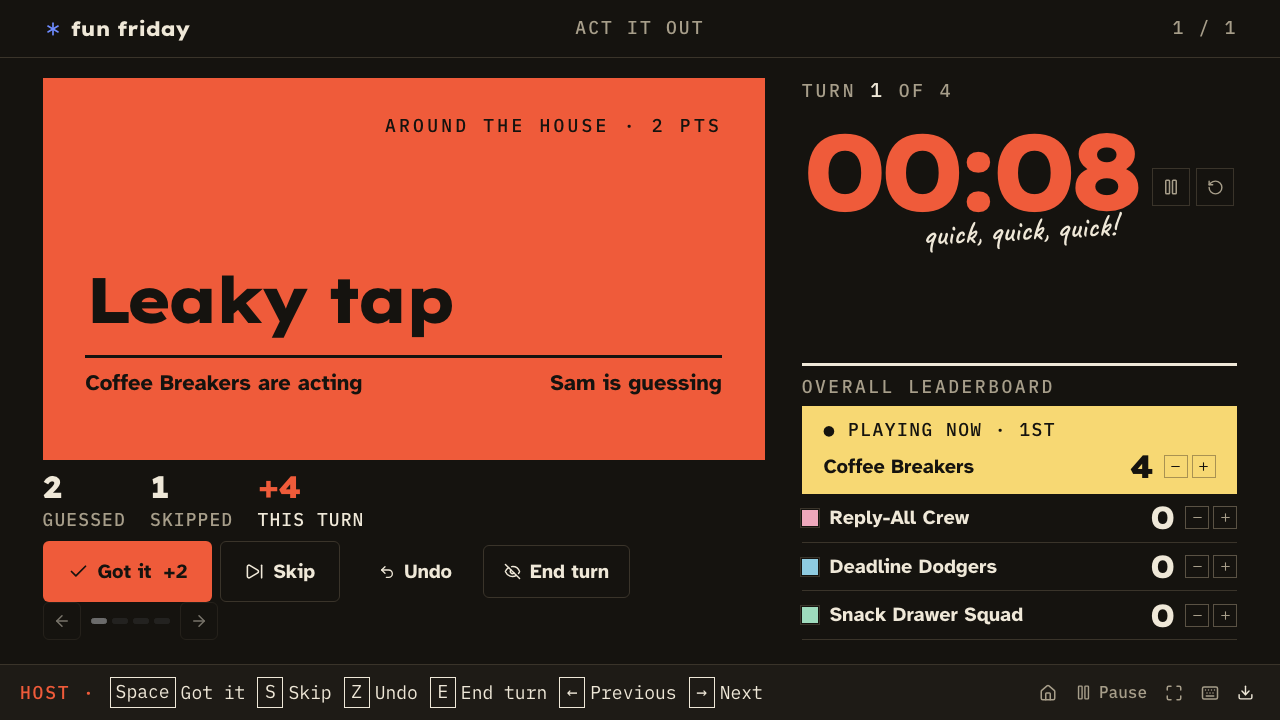
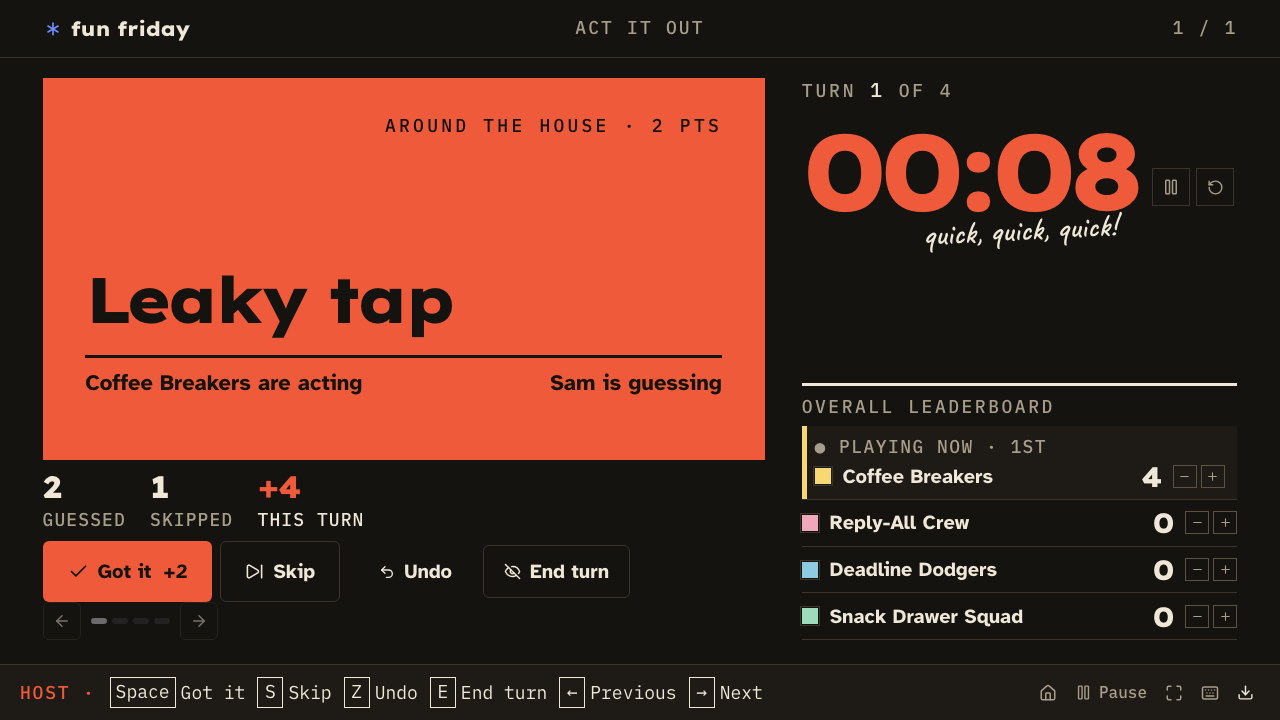
feat(ink): calm down the Childhood vs Now stage
The first pass was too dominating on the projector. Polaroids are about
70% of their former size with a gentler tilt and the handoff's polaroid
shadow; the name drops from 88px to 64px and the fun fact to 34px; the
+N CORRECT stamp is roughly half size with a 3px border.

The scoreboard (shared with Act It Out) loses the solid team-colour slab:
the team on stage is now a dark band with a 5px team-colour edge, and the
numerals drop from 64px to 40px. Eight teams still fit at 1280x720; After
Hours and Game Show are unchanged (24/24).

Changed region(s): [[0.625, 0.4889, 0.9688, 0.8861]]

diff --git a/src/theme/styles.css b/src/theme/styles.css
@@ -555,12 +555,12 @@
   [data-theme="ink"] [data-mode="show"] .round-header { border-bottom: 1px solid var(--rule); padding-bottom: 12px; }
   [data-theme="ink"] [data-mode="show"] .active-team .team-dot { width: 16px; height: 16px; border-radius: 0; box-shadow: none; }
   [data-theme="ink"] [data-mode="show"] .active-team small { color: var(--muted); letter-spacing: .14em; }
-  [data-theme="ink"] [data-mode="show"] .active-team strong { color: var(--paper); font: 700 clamp(22px, 1.6vw, 30px)/1.1 var(--body); letter-spacing: 0; }
+  [data-theme="ink"] [data-mode="show"] .active-team strong { color: var(--paper); font: 700 clamp(20px, 1.3vw, 26px)/1.1 var(--body); letter-spacing: 0; }
   [data-theme="ink"] [data-mode="show"] .round-count { font-family: var(--label); color: var(--muted); letter-spacing: .12em; text-transform: uppercase; }
   [data-theme="ink"] [data-mode="show"] .round-count b { color: var(--paper); font-weight: 500; }
   [data-theme="ink"] [data-mode="show"] .round-count small, [data-theme="ink"] [data-mode="show"] .point-stake > span { white-space: nowrap; letter-spacing: .06em; }
   [data-theme="ink"] [data-mode="show"] .point-stake { color: var(--vermilion); }
-  [data-theme="ink"] [data-mode="show"] .point-stake > b { font: 800 clamp(44px, 3.3vw, 64px)/.85 var(--heading); letter-spacing: -.06em; }
+  [data-theme="ink"] [data-mode="show"] .point-stake > b { font: 800 clamp(32px, 2.3vw, 44px)/.85 var(--heading); letter-spacing: -.06em; }
 
   /* Scoreboard: rules between rows, the team on stage as a colour slab ("● PLAYING NOW · 1ST"). */
   [data-theme="ink"] [data-mode="show"] .scoreboard { border-left: 0; padding: 0; display: flex; flex-direction: column; }
@@ -570,16 +570,16 @@
   [data-theme="ink"] [data-mode="show"] .scoreboard .score-row { display: grid; grid-template-columns: minmax(0, 1fr) auto; grid-template-areas: "head buttons"; align-items: center; column-gap: 12px; margin: 0; padding: clamp(8px, .8vw, 14px) 0; border: 0; border-bottom: 1px solid var(--rule); border-radius: 0; background: none; }
   [data-theme="ink"] [data-mode="show"] .score-heading { grid-area: head; gap: 12px; min-width: 0; }
   [data-theme="ink"] [data-mode="show"] .score-heading .team-dot { width: 16px; height: 16px; border-radius: 0; flex-shrink: 0; }
-  [data-theme="ink"] [data-mode="show"] .score-heading strong { font: 700 clamp(20px, 1.4vw, 28px)/1.1 var(--body); overflow-wrap: anywhere; }
-  [data-theme="ink"] [data-mode="show"] .score-heading b { font: 800 clamp(40px, 3.3vw, 64px)/.85 var(--heading); letter-spacing: -.06em; }
+  [data-theme="ink"] [data-mode="show"] .score-heading strong { font: 700 clamp(20px, 1.2vw, 24px)/1.15 var(--body); overflow-wrap: anywhere; }
+  [data-theme="ink"] [data-mode="show"] .score-heading b { font: 800 clamp(28px, 2.1vw, 40px)/.9 var(--heading); letter-spacing: -.05em; }
   [data-theme="ink"] [data-mode="show"] .score-meta { display: contents; }
   [data-theme="ink"] [data-mode="show"] .score-meta > span { display: none; }
   [data-theme="ink"] [data-mode="show"] .score-meta > div { grid-area: buttons; }
   [data-theme="ink"] [data-mode="show"] .score-meta button { border-radius: 0; border-color: var(--rule-strong); color: var(--muted); }
-  [data-theme="ink"] [data-mode="show"] .scoreboard .score-row.active { grid-template-areas: "label label" "head buttons"; padding: clamp(10px, 1vw, 20px) clamp(14px, 1.7vw, 32px); background: var(--team-color); color: var(--ink); border-bottom-color: transparent; }
-  [data-theme="ink"] [data-mode="show"] .score-row.active::before { content: "● PLAYING NOW · " attr(data-rank); grid-area: label; margin-bottom: clamp(6px, 1vw, 20px); font: 500 18px/1.2 var(--label); letter-spacing: .08em; white-space: nowrap; }
-  [data-theme="ink"] [data-mode="show"] .score-row.active .team-dot { display: none; }
-  [data-theme="ink"] [data-mode="show"] .score-row.active .score-meta button { border-color: color-mix(in oklch, var(--ink) 35%, transparent); color: var(--ink); }
+  [data-theme="ink"] [data-mode="show"] .scoreboard .score-row.active { grid-template-areas: "label label" "head buttons"; padding: clamp(8px, .8vw, 14px) clamp(12px, 1vw, 18px); background: var(--ink-2); box-shadow: inset 5px 0 var(--team-color); }
+  [data-theme="ink"] [data-mode="show"] .score-row.active::before { content: "● PLAYING NOW · " attr(data-rank); grid-area: label; margin-bottom: 6px; color: var(--muted); font: 500 18px/1.2 var(--label); letter-spacing: .08em; white-space: nowrap; }
+  [data-theme="ink"] [data-mode="show"] .score-row.active .team-dot { display: block; }
+  [data-theme="ink"] [data-mode="show"] .score-row.active .score-meta button { border-color: var(--rule-strong); color: var(--muted); }
   /* Six or more teams: compact rows so eight fit at 1280×720 without clipping behind the host rail. */
   [data-theme="ink"] [data-mode="show"] .scoreboard:has(.score-row ~ .score-row ~ .score-row ~ .score-row ~ .score-row ~ .score-row) .score-row { padding-block: 5px; }
   [data-theme="ink"] [data-mode="show"] .scoreboard:has(.score-row ~ .score-row ~ .score-row ~ .score-row ~ .score-row ~ .score-row) .score-heading strong { font-size: 20px; }
@@ -587,27 +587,27 @@
   [data-theme="ink"] [data-mode="show"] .scoreboard:has(.score-row ~ .score-row ~ .score-row ~ .score-row ~ .score-row ~ .score-row) .score-row.active::before { margin-bottom: 4px; }
 
   /* ---- Stage · Childhood vs Now (handoff screen 5): then | name | now, polaroids either side ---- */
-  [data-theme="ink"] [data-mode="show"] .cvn-stage .polaroid { background: var(--paper-2); padding: 14px 14px 0; box-shadow: 0 18px 40px #000a; color: var(--rule); }
-  [data-theme="ink"] [data-mode="show"] .cvn-stage .polaroid-caption { font: 600 clamp(28px, 2.3vw, 44px)/1.5 var(--hand); color: var(--rule); }
+  [data-theme="ink"] [data-mode="show"] .cvn-stage .polaroid { background: var(--paper-2); padding: 10px 10px 0; box-shadow: var(--shadow-polaroid); color: var(--rule); }
+  [data-theme="ink"] [data-mode="show"] .cvn-stage .polaroid-caption { font: 600 clamp(22px, 1.6vw, 32px)/1.5 var(--hand); color: var(--rule); }
   [data-theme="ink"] [data-mode="show"] .cvn-stage .question-intro .eyebrow { color: var(--vermilion); letter-spacing: .22em; }
-  [data-theme="ink"] [data-mode="show"] .cvn-stage .question-intro h1 { font: 800 clamp(40px, 3.3vw, 64px)/1 var(--heading); letter-spacing: -.06em; }
-  [data-theme="ink"] [data-mode="show"] .cvn-stage .childhood-polaroid { width: auto; height: min(38vh, 480px); aspect-ratio: 360 / 470; transform: rotate(-4deg); }
+  [data-theme="ink"] [data-mode="show"] .cvn-stage .question-intro h1 { font: 800 clamp(32px, 2.5vw, 48px)/1 var(--heading); letter-spacing: -.05em; }
+  [data-theme="ink"] [data-mode="show"] .cvn-stage .childhood-polaroid { width: auto; height: min(32vh, 360px); aspect-ratio: 360 / 470; transform: rotate(-3deg); }
   [data-theme="ink"] [data-mode="show"] .cvn-stage .round-scene:has(.reveal-polaroids) { display: grid; grid-template-columns: minmax(0, 1fr) minmax(0, 1.3fr) minmax(0, 1fr); align-items: center; gap: clamp(16px, 2vw, 40px); }
   [data-theme="ink"] [data-mode="show"] .cvn-stage .reveal-polaroids { display: contents; }
   [data-theme="ink"] [data-mode="show"] .cvn-stage .reveal-arrow { display: none; }
-  [data-theme="ink"] [data-mode="show"] .cvn-stage .reveal-polaroids .polaroid { grid-row: 1; width: min(90%, 400px, calc(52vh * 360 / 470)); height: auto; aspect-ratio: 360 / 470; }
-  [data-theme="ink"] [data-mode="show"] .cvn-stage .then-reveal { grid-column: 1; justify-self: end; transform: rotate(-6deg); }
-  [data-theme="ink"] [data-mode="show"] .cvn-stage .now-reveal { grid-column: 3; justify-self: start; transform: rotate(5deg); }
+  [data-theme="ink"] [data-mode="show"] .cvn-stage .reveal-polaroids .polaroid { grid-row: 1; width: min(70%, 280px, calc(36vh * 360 / 470)); height: auto; aspect-ratio: 360 / 470; }
+  [data-theme="ink"] [data-mode="show"] .cvn-stage .then-reveal { grid-column: 1; justify-self: end; transform: rotate(-4deg); }
+  [data-theme="ink"] [data-mode="show"] .cvn-stage .now-reveal { grid-column: 3; justify-self: start; transform: rotate(3deg); }
   [data-theme="ink"] [data-mode="show"] .cvn-stage .reveal-name { grid-column: 2; grid-row: 1; display: flex; flex-direction: column; align-items: center; max-width: none; margin: 0; }
-  [data-theme="ink"] [data-mode="show"] .cvn-stage .reveal-name .eyebrow { font: 500 clamp(18px, 1.25vw, 24px)/1.2 var(--label); letter-spacing: .22em; color: var(--vermilion); }
-  [data-theme="ink"] [data-mode="show"] .cvn-stage .reveal-name h1 { font: 800 clamp(56px, 4.6vw, 88px)/.95 var(--heading); letter-spacing: -.07em; margin-top: 12px; color: var(--paper); }
-  [data-theme="ink"] [data-mode="show"] .cvn-stage .reveal-name p { font: 600 clamp(28px, 2.5vw, 48px)/1.1 var(--hand); color: var(--body-muted-soft); margin-top: 14px; }
+  [data-theme="ink"] [data-mode="show"] .cvn-stage .reveal-name .eyebrow { font: 500 clamp(18px, 1vw, 20px)/1.2 var(--label); letter-spacing: .18em; color: var(--vermilion); }
+  [data-theme="ink"] [data-mode="show"] .cvn-stage .reveal-name h1 { font: 800 clamp(44px, 3.4vw, 64px)/.95 var(--heading); letter-spacing: -.06em; margin-top: 10px; color: var(--paper); }
+  [data-theme="ink"] [data-mode="show"] .cvn-stage .reveal-name p { font: 600 clamp(24px, 1.8vw, 34px)/1.15 var(--hand); color: var(--body-muted-soft); margin-top: 10px; }
 
   /* The "+N CORRECT" stamp lands with a small thump when the host marks the round correct. */
-  [data-theme="ink"] [data-mode="show"] .correct-stamp { display: inline-flex; align-items: center; gap: clamp(12px, 1.2vw, 22px); max-width: 100%; margin-top: clamp(18px, 2.3vw, 44px); padding: clamp(8px, .75vw, 14px) clamp(16px, 1.8vw, 34px); border: clamp(4px, .31vw, 6px) solid var(--vermilion); color: var(--vermilion); transform: rotate(-4deg); animation: ink-stamp 180ms ease-out both; }
-  [data-theme="ink"] [data-mode="show"] .correct-stamp b { font: 800 clamp(48px, 4.2vw, 80px)/1 var(--heading); letter-spacing: -.06em; }
-  [data-theme="ink"] [data-mode="show"] .correct-stamp span { display: flex; flex-direction: column; min-width: 0; text-align: left; font: 700 clamp(24px, 1.8vw, 34px)/1.05 var(--heading); letter-spacing: -.05em; }
-  [data-theme="ink"] [data-mode="show"] .correct-stamp small { margin-top: 4px; font: 500 max(18px, 1.15vw)/1.3 var(--label); letter-spacing: .12em; text-transform: uppercase; overflow-wrap: anywhere; }
+  [data-theme="ink"] [data-mode="show"] .correct-stamp { display: inline-flex; align-items: center; gap: clamp(8px, .7vw, 14px); max-width: 100%; margin-top: clamp(14px, 1.4vw, 28px); padding: clamp(4px, .4vw, 8px) clamp(12px, 1vw, 20px); border: 3px solid var(--vermilion); color: var(--vermilion); transform: rotate(-4deg); animation: ink-stamp 180ms ease-out both; }
+  [data-theme="ink"] [data-mode="show"] .correct-stamp b { font: 800 clamp(30px, 2.2vw, 44px)/1 var(--heading); letter-spacing: -.05em; }
+  [data-theme="ink"] [data-mode="show"] .correct-stamp span { display: flex; flex-direction: column; min-width: 0; text-align: left; font: 700 clamp(18px, 1.1vw, 22px)/1.05 var(--heading); letter-spacing: -.03em; }
+  [data-theme="ink"] [data-mode="show"] .correct-stamp small { margin-top: 3px; font: 500 18px/1.3 var(--label); letter-spacing: .1em; text-transform: uppercase; overflow-wrap: anywhere; }
   @keyframes ink-stamp { from { transform: rotate(-4deg) scale(1.15); } to { transform: rotate(-4deg) scale(1); } }
   @media (prefers-reduced-motion: reduce) { [data-theme="ink"] [data-mode="show"] .correct-stamp { animation: none; } }
 
@@ -650,7 +650,7 @@
   [data-theme="ink"] [data-mode="show"] .aio-stage .tally-n, [data-theme="ink"] [data-mode="show"] .aio-stage .turn-running b { font: 800 clamp(36px, 3.1vw, 60px)/1 var(--heading); letter-spacing: -.04em; color: var(--paper); }
   [data-theme="ink"] [data-mode="show"] .aio-stage .turn-running b { color: var(--vermilion); }
   [data-theme="ink"] [data-mode="show"] .aio-stage:has(.aio-acting) .scoreboard { grid-area: board; align-self: end; margin-top: clamp(12px, 2vh, 40px); }
-  [data-theme="ink"] [data-mode="show"] .aio-stage .score-heading b { font-size: clamp(32px, 2.3vw, 44px); }
+  [data-theme="ink"] [data-mode="show"] .aio-stage .score-heading b { font-size: clamp(28px, 2.1vw, 40px); }
   [data-theme="ink"] [data-mode="show"] .aio-stage:has(.aio-acting) .round-actions { grid-area: actions; justify-content: flex-start; min-height: 0; padding: 0; }
   [data-theme="ink"] [data-mode="show"] .aio-stage:has(.aio-acting) .round-navigation { grid-area: nav; justify-content: flex-start; }
   /* Short screens, or six or more teams: the tallies move under the panel and the clock shrinks, so the
